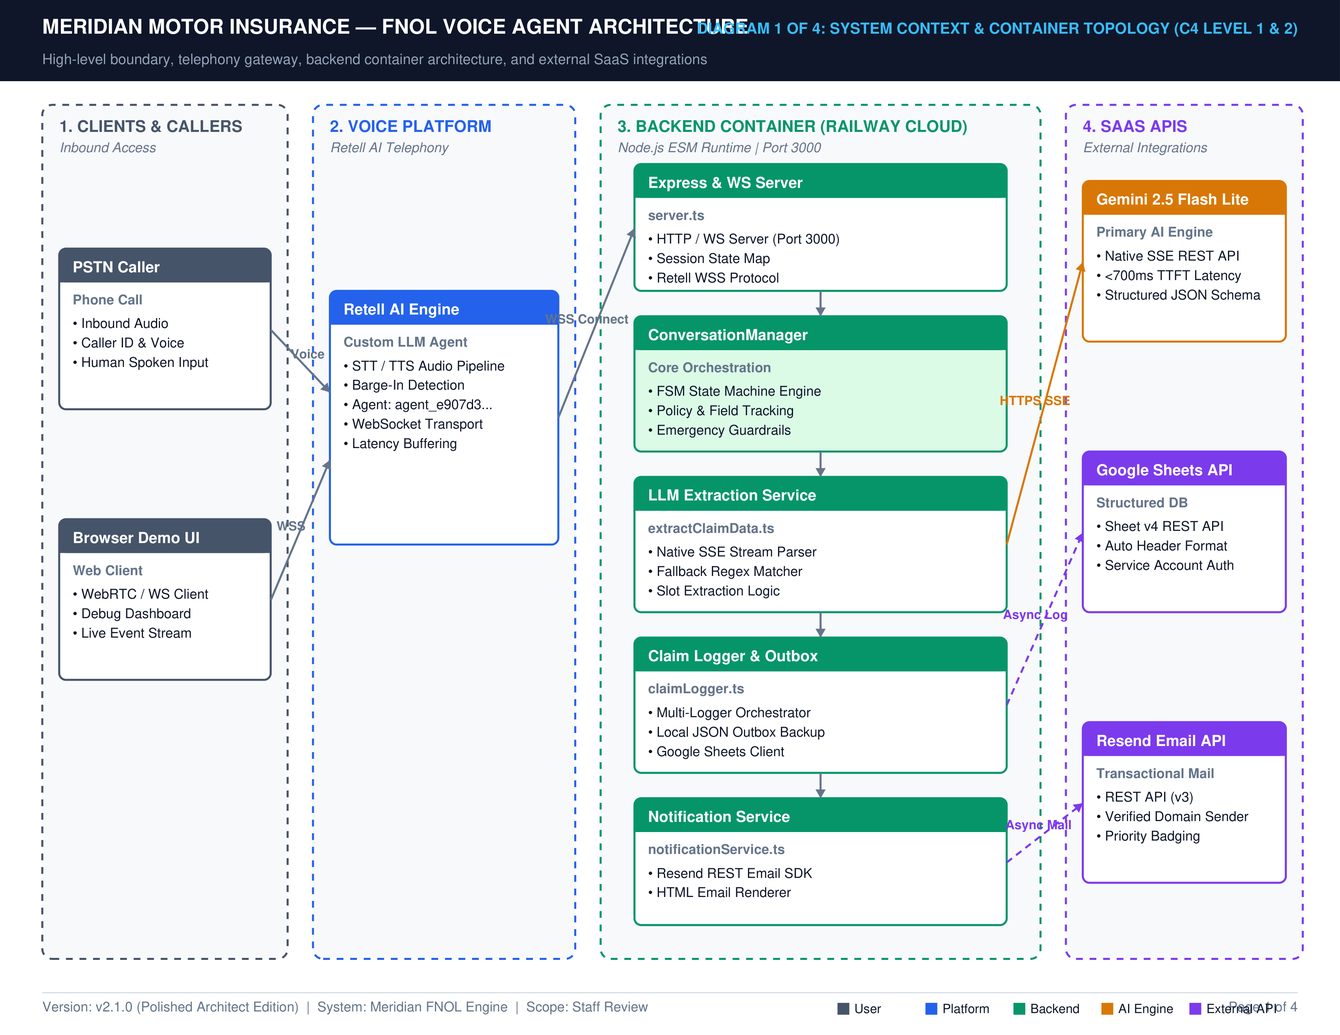
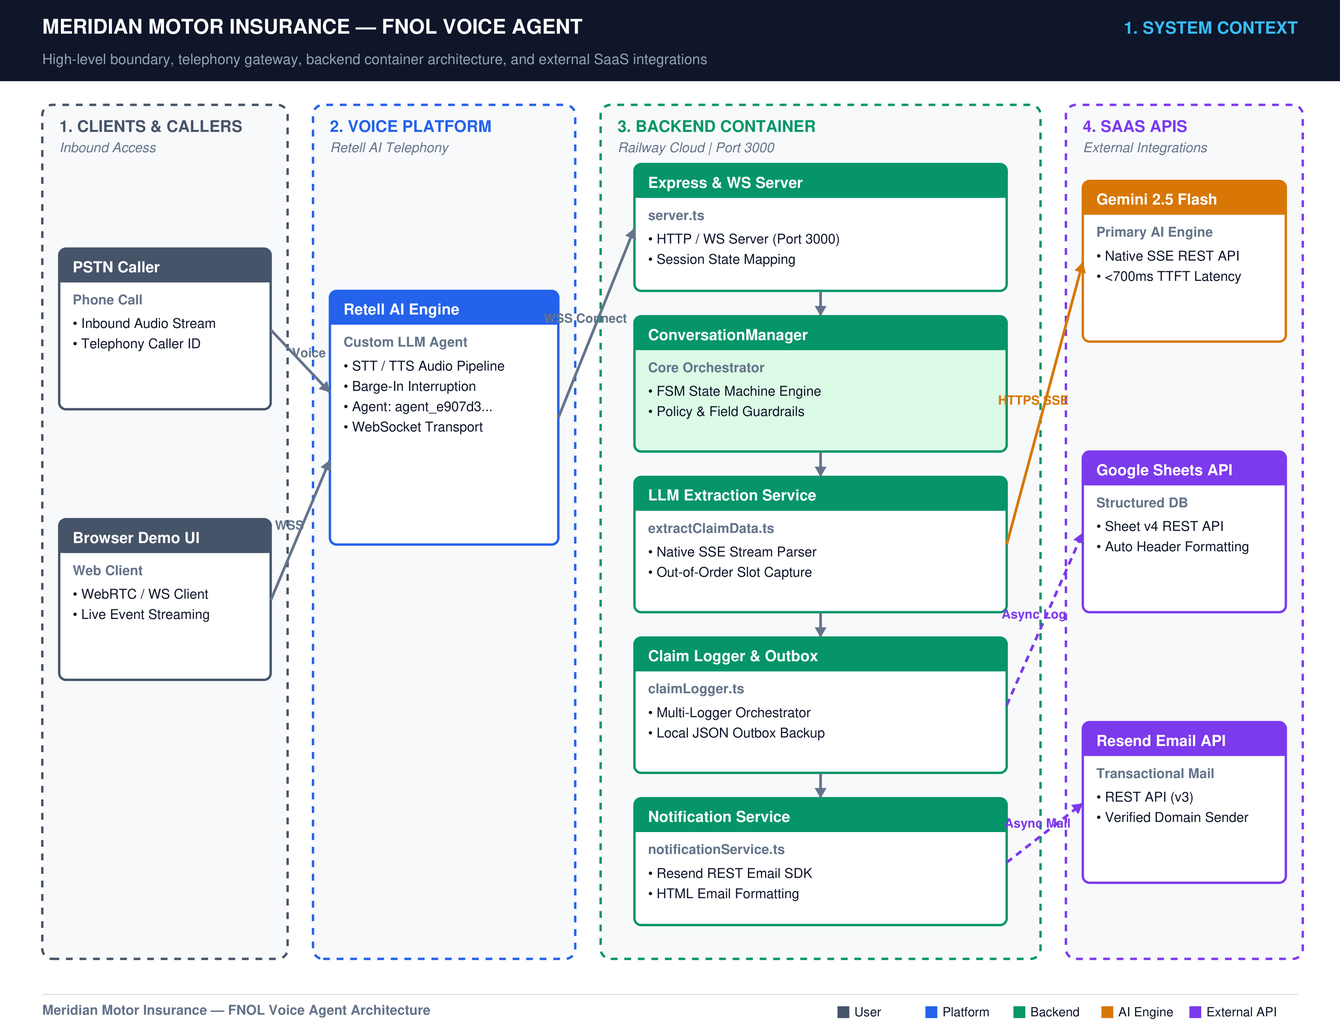
docs: finalize architecture presentation deck with 7 visual refinements (clean titles, zero-clutter footers, high-contrast async box, distinct FSM path colors)

diff --git a/scripts/generate-architecture-artifacts.py b/scripts/generate-architecture-artifacts.py
@@ -16,7 +16,7 @@ COLOR_TEXT_MUTED = colors.HexColor('#64748b')   # Slate 500
 COLOR_BORDER = colors.HexColor('#cbd5e1')       # Slate 300
 COLOR_CONTAINER_BG = colors.HexColor('#f8fafc') # Slate 50
 
-# The 5 Canonical Role Colors
+# 5 Canonical Role Colors
 COLOR_GREY = colors.HexColor('#475569')      # 1. User / Client (Slate 600)
 COLOR_BLUE = colors.HexColor('#2563eb')      # 2. Telephony Platform (Blue 600)
 COLOR_GREEN = colors.HexColor('#059669')     # 3. Core Backend Container (Emerald 600)
@@ -25,42 +25,41 @@ COLOR_PURPLE = colors.HexColor('#7c3aed')    # 5. External Services (Violet 600)
 COLOR_RED = colors.HexColor('#dc2626')       # Safety Alert / Emergency (Red 600)
 
 # =============================================================================
-# PRECISION GRAPHICS ENGINE (TIGHT HEADER & CONSISTENT MARGINS)
+# PRECISION GRAPHICS ENGINE (CLEAN HEADER & THICKER ARROWS)
 # =============================================================================
-def draw_header_footer(c, page_num, title, subtitle):
-    # Compact 36px Header Bar (Gives +45px vertical room for content)
+def draw_header_footer(c, title, subtitle):
+    # Sleek Header Bar
     c.setFillColor(COLOR_HEADER_BG)
     c.rect(0, 564, 792, 48, fill=True, stroke=False)
     
     # Title Left
     c.setFillColor(colors.HexColor('#ffffff'))
     c.setFont("Helvetica-Bold", 12)
-    c.drawString(25, 592, "MERIDIAN MOTOR INSURANCE — FNOL VOICE AGENT ARCHITECTURE")
+    c.drawString(25, 592, "MERIDIAN MOTOR INSURANCE — FNOL VOICE AGENT")
     
-    # Page Tag Right
+    # Clean Page Title Right (e.g. "1. SYSTEM CONTEXT")
     c.setFillColor(colors.HexColor('#38bdf8')) # Sky 400
-    c.setFont("Helvetica-Bold", 9)
-    c.drawRightString(767, 592, f"DIAGRAM {page_num} OF 4: {title.upper()}")
+    c.setFont("Helvetica-Bold", 10)
+    c.drawRightString(767, 592, title.upper())
     
-    # Subtitle Left (Inside dark bar for clean zero-margin look)
+    # Subtitle Left
     c.setFillColor(colors.HexColor('#94a3b8')) # Slate 400
     c.setFont("Helvetica", 8.5)
     c.drawString(25, 574, subtitle)
     
-    # Footer Divider Line
+    # Clean Footer Line
     c.setStrokeColor(COLOR_BORDER)
     c.setLineWidth(0.5)
-    c.line(25, 25, 767, 25)
+    c.line(25, 24, 767, 24)
     
-    # Footer Left & Right
+    # Footer Left
     c.setFillColor(COLOR_TEXT_MUTED)
-    c.setFont("Helvetica", 8)
-    c.drawString(25, 14, "Version: v2.1.0 (Polished Architect Edition)  |  System: Meridian FNOL Engine  |  Scope: Staff Review")
-    c.drawRightString(767, 14, f"Page {page_num} of 4")
+    c.setFont("Helvetica-Bold", 8)
+    c.drawString(25, 12, "Meridian Motor Insurance — FNOL Voice Agent Architecture")
 
     # Legend at Bottom Right
     legend_x = 495
-    legend_y = 14
+    legend_y = 12
     items = [
         ("User", COLOR_GREY),
         ("Platform", COLOR_BLUE),
@@ -79,13 +78,13 @@ def draw_header_footer(c, page_num, title, subtitle):
 def draw_card(c, x, y, width, height, title, subtitle, color, fill_color=colors.HexColor('#ffffff'), text_lines=None, dashed_border=False):
     c.setStrokeColor(color)
     c.setFillColor(fill_color)
-    c.setLineWidth(1.2)
+    c.setLineWidth(1.4)
     if dashed_border:
         c.setDash(4, 3)
     c.roundRect(x, y, width, height, 4, fill=True, stroke=True)
     c.setDash()
     
-    # Header bar inside card (20px tall)
+    # Header bar inside card
     c.setFillColor(color)
     c.roundRect(x, y + height - 20, width, 20, 4, fill=True, stroke=False)
     c.rect(x, y + height - 20, width, 4, fill=True, stroke=False)
@@ -101,19 +100,19 @@ def draw_card(c, x, y, width, height, title, subtitle, color, fill_color=colors.
         c.setFont("Helvetica-Bold", 8)
         c.drawString(x + 8, y + height - 33, subtitle)
     
-    # Bullet lines
+    # Bullet lines (Pruned essentials)
     if text_lines:
         c.setFillColor(COLOR_TEXT_MAIN)
         c.setFont("Helvetica", 8)
         ly = y + height - 47
         for line in text_lines:
             c.drawString(x + 8, ly, line)
-            ly -= 11.5
+            ly -= 12
 
 def draw_container_box(c, x, y, width, height, title, subtitle, color):
     c.setStrokeColor(color)
     c.setFillColor(COLOR_CONTAINER_BG)
-    c.setLineWidth(1.2)
+    c.setLineWidth(1.4)
     c.setDash(4, 4)
     c.roundRect(x, y, width, height, 6, fill=True, stroke=True)
     c.setDash()
@@ -126,10 +125,10 @@ def draw_container_box(c, x, y, width, height, title, subtitle, color):
         c.setFont("Helvetica-Oblique", 8)
         c.drawString(x + 10, y + height - 28, subtitle)
 
-def draw_arrow(c, x1, y1, x2, y2, label="", dashed=False, color=COLOR_TEXT_MUTED):
+def draw_arrow(c, x1, y1, x2, y2, label="", dashed=False, color=COLOR_TEXT_MUTED, line_width=1.6):
     c.setStrokeColor(color)
     c.setFillColor(color)
-    c.setLineWidth(1.2)
+    c.setLineWidth(line_width)
     if dashed:
         c.setDash(4, 3)
     else:
@@ -139,7 +138,7 @@ def draw_arrow(c, x1, y1, x2, y2, label="", dashed=False, color=COLOR_TEXT_MUTED
     
     # Arrowhead calculation
     angle = math.atan2(y2 - y1, x2 - x1)
-    arrow_size = 6
+    arrow_size = 7
     p1x = x2 - arrow_size * math.cos(angle - math.pi/6)
     p1y = y2 - arrow_size * math.sin(angle - math.pi/6)
     p2x = x2 - arrow_size * math.cos(angle + math.pi/6)
@@ -157,8 +156,8 @@ def draw_arrow(c, x1, y1, x2, y2, label="", dashed=False, color=COLOR_TEXT_MUTED
         c.setFont("Helvetica-Bold", 7.5)
         mid_x = (x1 + x2) / 2
         mid_y = (y1 + y2) / 2
-        ox = -math.sin(angle) * 6
-        oy = math.cos(angle) * 6
+        ox = -math.sin(angle) * 7
+        oy = math.cos(angle) * 7
         c.drawCentredString(mid_x + ox, mid_y + oy - 2.5, label)
 
 # =============================================================================
@@ -166,94 +165,90 @@ def draw_arrow(c, x1, y1, x2, y2, label="", dashed=False, color=COLOR_TEXT_MUTED
 # =============================================================================
 def render_diagram1(c):
     draw_header_footer(
-        c, 1, 
-        "System Context & Container Topology (C4 Level 1 & 2)", 
+        c, "1. System Context", 
         "High-level boundary, telephony gateway, backend container architecture, and external SaaS integrations"
     )
     
-    # Vertical bounds: y=45 to y=550 (Height: 505px)
     # 1. External Clients
     draw_container_box(c, 25, 45, 145, 505, "1. CLIENTS & CALLERS", "Inbound Access", COLOR_GREY)
-    draw_card(c, 35, 370, 125, 95, "PSTN Caller", "Phone Call", COLOR_GREY, text_lines=["• Inbound Audio", "• Caller ID & Voice", "• Human Spoken Input"])
-    draw_card(c, 35, 210, 125, 95, "Browser Demo UI", "Web Client", COLOR_GREY, text_lines=["• WebRTC / WS Client", "• Debug Dashboard", "• Live Event Stream"])
+    draw_card(c, 35, 370, 125, 95, "PSTN Caller", "Phone Call", COLOR_GREY, text_lines=["• Inbound Audio Stream", "• Telephony Caller ID"])
+    draw_card(c, 35, 210, 125, 95, "Browser Demo UI", "Web Client", COLOR_GREY, text_lines=["• WebRTC / WS Client", "• Live Event Streaming"])
 
     # 2. Voice Platform
     draw_container_box(c, 185, 45, 155, 505, "2. VOICE PLATFORM", "Retell AI Telephony", COLOR_BLUE)
-    draw_card(c, 195, 290, 135, 150, "Retell AI Engine", "Custom LLM Agent", COLOR_BLUE, text_lines=["• STT / TTS Audio Pipeline", "• Barge-In Detection", "• Agent: agent_e907d3...", "• WebSocket Transport", "• Latency Buffering"])
+    draw_card(c, 195, 290, 135, 150, "Retell AI Engine", "Custom LLM Agent", COLOR_BLUE, text_lines=["• STT / TTS Audio Pipeline", "• Barge-In Interruption", "• Agent: agent_e907d3...", "• WebSocket Transport"])
 
     # 3. Core Railway Cloud Container Boundary
-    draw_container_box(c, 355, 45, 260, 505, "3. BACKEND CONTAINER (RAILWAY CLOUD)", "Node.js ESM Runtime | Port 3000", COLOR_GREEN)
+    draw_container_box(c, 355, 45, 260, 505, "3. BACKEND CONTAINER", "Railway Cloud | Port 3000", COLOR_GREEN)
     
-    draw_card(c, 375, 440, 220, 75, "Express & WS Server", "server.ts", COLOR_GREEN, text_lines=["• HTTP / WS Server (Port 3000)", "• Session State Map", "• Retell WSS Protocol"])
-    draw_card(c, 375, 345, 220, 80, "ConversationManager", "Core Orchestration", COLOR_GREEN, colors.HexColor('#dcfce7'), text_lines=["• FSM State Machine Engine", "• Policy & Field Tracking", "• Emergency Guardrails"])
-    draw_card(c, 375, 250, 220, 80, "LLM Extraction Service", "extractClaimData.ts", COLOR_GREEN, text_lines=["• Native SSE Stream Parser", "• Fallback Regex Matcher", "• Slot Extraction Logic"])
-    draw_card(c, 375, 155, 220, 80, "Claim Logger & Outbox", "claimLogger.ts", COLOR_GREEN, text_lines=["• Multi-Logger Orchestrator", "• Local JSON Outbox Backup", "• Google Sheets Client"])
-    draw_card(c, 375, 65, 220, 75, "Notification Service", "notificationService.ts", COLOR_GREEN, text_lines=["• Resend REST Email SDK", "• HTML Email Renderer"])
+    draw_card(c, 375, 440, 220, 75, "Express & WS Server", "server.ts", COLOR_GREEN, text_lines=["• HTTP / WS Server (Port 3000)", "• Session State Mapping"])
+    draw_card(c, 375, 345, 220, 80, "ConversationManager", "Core Orchestrator", COLOR_GREEN, colors.HexColor('#dcfce7'), text_lines=["• FSM State Machine Engine", "• Policy & Field Guardrails"])
+    draw_card(c, 375, 250, 220, 80, "LLM Extraction Service", "extractClaimData.ts", COLOR_GREEN, text_lines=["• Native SSE Stream Parser", "• Out-of-Order Slot Capture"])
+    draw_card(c, 375, 155, 220, 80, "Claim Logger & Outbox", "claimLogger.ts", COLOR_GREEN, text_lines=["• Multi-Logger Orchestrator", "• Local JSON Outbox Backup"])
+    draw_card(c, 375, 65, 220, 75, "Notification Service", "notificationService.ts", COLOR_GREEN, text_lines=["• Resend REST Email SDK", "• HTML Email Formatting"])
 
     # 4. External Services
     draw_container_box(c, 630, 45, 140, 505, "4. SAAS APIS", "External Integrations", COLOR_PURPLE)
-    draw_card(c, 640, 410, 120, 95, "Gemini 2.5 Flash Lite", "Primary AI Engine", COLOR_ORANGE, text_lines=["• Native SSE REST API", "• <700ms TTFT Latency", "• Structured JSON Schema"])
-    draw_card(c, 640, 250, 120, 95, "Google Sheets API", "Structured DB", COLOR_PURPLE, text_lines=["• Sheet v4 REST API", "• Auto Header Format", "• Service Account Auth"])
-    draw_card(c, 640, 90, 120, 95, "Resend Email API", "Transactional Mail", COLOR_PURPLE, text_lines=["• REST API (v3)", "• Verified Domain Sender", "• Priority Badging"])
+    draw_card(c, 640, 410, 120, 95, "Gemini 2.5 Flash", "Primary AI Engine", COLOR_ORANGE, text_lines=["• Native SSE REST API", "• <700ms TTFT Latency"])
+    draw_card(c, 640, 250, 120, 95, "Google Sheets API", "Structured DB", COLOR_PURPLE, text_lines=["• Sheet v4 REST API", "• Auto Header Formatting"])
+    draw_card(c, 640, 90, 120, 95, "Resend Email API", "Transactional Mail", COLOR_PURPLE, text_lines=["• REST API (v3)", "• Verified Domain Sender"])
 
-    # Connectors
-    draw_arrow(c, 160, 417, 195, 380, "Voice")
-    draw_arrow(c, 160, 257, 195, 340, "WSS")
+    # Connectors with thicker 1.6 lines
+    draw_arrow(c, 160, 417, 195, 380, "Voice", line_width=1.6)
+    draw_arrow(c, 160, 257, 195, 340, "WSS", line_width=1.6)
     
-    draw_arrow(c, 330, 365, 375, 477, "WSS Connect")
-    draw_arrow(c, 485, 440, 485, 425)
-    draw_arrow(c, 485, 345, 485, 330)
-    draw_arrow(c, 485, 250, 485, 235)
-    draw_arrow(c, 485, 155, 485, 140)
+    draw_arrow(c, 330, 365, 375, 477, "WSS Connect", line_width=1.6)
+    draw_arrow(c, 485, 440, 485, 425, line_width=1.6)
+    draw_arrow(c, 485, 345, 485, 330, line_width=1.6)
+    draw_arrow(c, 485, 250, 485, 235, line_width=1.6)
+    draw_arrow(c, 485, 155, 485, 140, line_width=1.6)
 
-    draw_arrow(c, 595, 290, 640, 457, "HTTPS SSE", False, COLOR_ORANGE)
-    draw_arrow(c, 595, 195, 640, 297, "Async Log", True, COLOR_PURPLE)
-    draw_arrow(c, 595, 102, 640, 137, "Async Mail", True, COLOR_PURPLE)
+    draw_arrow(c, 595, 290, 640, 457, "HTTPS SSE", False, COLOR_ORANGE, line_width=1.6)
+    draw_arrow(c, 595, 195, 640, 297, "Async Log", True, COLOR_PURPLE, line_width=1.6)
+    draw_arrow(c, 595, 102, 640, 137, "Async Mail", True, COLOR_PURPLE, line_width=1.6)
 
 # =============================================================================
 # DIAGRAM 2: C4 COMPONENT ARCHITECTURE (CONVERSATION MANAGER)
 # =============================================================================
 def render_diagram2(c):
     draw_header_footer(
-        c, 2, 
-        "Domain Component Architecture (C4 Level 3)", 
+        c, "2. Component Architecture", 
         "Decoupled service components executing turn validation, policy lookup, extraction, and recommendations"
     )
     
-    # Central Orchestrator Top
-    draw_card(c, 276, 435, 240, 85, "ConversationManager", "src/conversation/ConversationManager.ts", COLOR_GREEN, colors.HexColor('#dcfce7'), text_lines=["• Turn Orchestrator & Action Dispatcher", "• FSM State Machine Engine & Invariants", "• Session History & Slot Tracking"])
+    # Central Orchestrator Top (Increased vertical whitespace)
+    draw_card(c, 276, 440, 240, 80, "ConversationManager", "src/conversation/ConversationManager.ts", COLOR_GREEN, colors.HexColor('#dcfce7'), text_lines=["• Turn Orchestrator & Action Dispatcher", "• FSM State Machine Engine", "• Session History & Slot Tracking"])
 
     # 4 Core Processing Components (Top Row)
-    draw_card(c, 25, 260, 170, 125, "VerifyPolicyService", "src/services/verifyPolicy.ts", COLOR_GREEN, text_lines=["• Validates Policy # & Name", "• Reads policies.json DB", "• Enforces 2-Retry Limit", "• Offers Callback on Fail", "• Precondition for Completion"])
+    draw_card(c, 25, 265, 170, 120, "VerifyPolicyService", "verifyPolicy.ts", COLOR_GREEN, text_lines=["• Validates Policy # & Name", "• Reads policies.json DB", "• Enforces 2-Retry Limit", "• Offers Callback on Fail"])
     
-    draw_card(c, 215, 260, 170, 125, "ExtractClaimDataService", "src/services/extractClaimData.ts", COLOR_GREEN, text_lines=["• Prompts Gemini 2.5 SSE", "• Fallback Regex Matcher", "• JSON Slot Sanitizer", "• Calculates Token Metrics", "• Out-of-Order Field Capture"])
+    draw_card(c, 215, 265, 170, 120, "ExtractClaimDataService", "extractClaimData.ts", COLOR_GREEN, text_lines=["• Prompts Gemini 2.5 SSE", "• Fallback Regex Matcher", "• JSON Slot Sanitizer", "• Token Usage Tracking"])
 
-    draw_card(c, 405, 260, 170, 125, "NormalizeClaimData", "src/services/normalizeClaimData.ts", COLOR_GREEN, text_lines=["• Spoken Phonetic Cleaner", "• Normalizes License Plates", "• Converts Relative Dates", "• Standardizes Vehicle Details", "• Sanitize Text & Booleans"])
+    draw_card(c, 405, 265, 170, 120, "NormalizeClaimData", "normalizeClaimData.ts", COLOR_GREEN, text_lines=["• Spoken Phonetic Cleaner", "• License Plate Normalizer", "• Relative Date Parser", "• Vehicle Details Cleaner"])
 
-    draw_card(c, 595, 260, 170, 125, "RecommendServices", "src/services/recommendServices.ts", COLOR_GREEN, text_lines=["• Checks Entitlements", "• Recommends Towing", "• Recommends Garages", "• Out-of-Pocket Rules", "• Service Confirmation Gate"])
+    draw_card(c, 595, 265, 170, 120, "RecommendServices", "recommendServices.ts", COLOR_GREEN, text_lines=["• Checks Entitlements", "• Towing Recommendations", "• Garage Recommendations", "• Out-of-Pocket Rules"])
 
     # 4 Output & Persistence Components (Bottom Row)
-    draw_card(c, 25, 75, 170, 125, "GenerateSummaryService", "src/services/generateSummary.ts", COLOR_GREEN, text_lines=["• Synthesizes Claim Summary", "• Classifies Severity Level", "• Summarizes Incidents", "• Formats Log Output", "• LLM Summary Generator"])
+    draw_card(c, 25, 75, 170, 120, "GenerateSummaryService", "generateSummary.ts", COLOR_GREEN, text_lines=["• Synthesizes Claim Summary", "• Classifies Severity Level", "• Summarizes Incidents", "• Formats Output Payload"])
 
-    draw_card(c, 215, 75, 170, 125, "ClaimLoggerService", "src/storage/googleSheets.ts", COLOR_GREEN, text_lines=["• Appends Rows to Sheet", "• Auto-Formats Headers", "• Handles Google Auth", "• Writes Local JSON Outbox", "• MultiClaimLogger Fallback"])
+    draw_card(c, 215, 75, 170, 120, "ClaimLoggerService", "googleSheets.ts", COLOR_GREEN, text_lines=["• Appends Rows to Sheet", "• Auto-Formats Headers", "• Handles Google Auth", "• Writes Local JSON Outbox"])
 
-    draw_card(c, 405, 75, 170, 125, "NotificationService", "src/services/notificationService.ts", COLOR_GREEN, text_lines=["• Sends Resend Emails", "• Formats HTML/Text Mail", "• Priority Urgent Badges", "• Handles Sandbox Fallback", "• Recipient Email Dispatch"])
+    draw_card(c, 405, 75, 170, 120, "NotificationService", "notificationService.ts", COLOR_GREEN, text_lines=["• Sends Resend Emails", "• HTML Email Formatting", "• Priority Urgent Badges", "• Sandbox Mode Fallback"])
 
-    draw_card(c, 595, 75, 170, 125, "EmpathyEngine", "src/config/EmpathyEngine.ts", COLOR_GREEN, text_lines=["• Distress Phrase Detector", "• Warm Spoken Openers", "• Calming Response Rules", "• Compliance Tone Check", "• Human Tone Guardrails"])
+    draw_card(c, 595, 75, 170, 120, "EmpathyEngine", "EmpathyEngine.ts", COLOR_GREEN, text_lines=["• Distress Phrase Detector", "• Warm Spoken Openers", "• Calming Response Rules", "• Compliance Tone Check"])
 
     # Connectors from Orchestrator down to components
     top_targets = [110, 300, 490, 680]
     for tx in top_targets:
-        draw_arrow(c, 396, 435, tx, 385, "Invokes")
-        draw_arrow(c, tx, 260, tx, 200, "Flows to")
+        draw_arrow(c, 396, 440, tx, 385, "Invokes", line_width=1.6)
+        draw_arrow(c, tx, 265, tx, 195, "Flows to", line_width=1.6)
 
 # =============================================================================
 # DIAGRAM 3: UML SEQUENCE FLOW & ASYNC PERSISTENCE
 # =============================================================================
 def render_diagram3(c):
     draw_header_footer(
-        c, 3, 
-        "End-to-End Sequence & Non-Blocking Async Persistence", 
+        c, "3. Runtime Sequence", 
         "Low-latency real-time voice turns paired with asynchronous background logging & notification"
     )
     
@@ -280,7 +275,7 @@ def render_diagram3(c):
         c.setDash()
 
     def seq_msg(x1, x2, y, text, async_call=False):
-        draw_arrow(c, x1, y, x2, y, text, async_call, COLOR_PURPLE if async_call else COLOR_TEXT_MAIN)
+        draw_arrow(c, x1, y, x2, y, text, async_call, COLOR_PURPLE if async_call else COLOR_TEXT_MAIN, line_width=1.7)
 
     y = 465
     seq_msg(75, 195, y, "1. Inbound Phone Call"); y -= 33
@@ -294,61 +289,66 @@ def render_diagram3(c):
     seq_msg(475, 335, y, "9. Verified Policy & Response Text"); y -= 33
     seq_msg(335, 195, y, "10. response { content } (Audio Plays)"); y -= 45
     
-    # Async Block highlight
+    # Highly Obvious Darker Purple Async Container Box
     c.setStrokeColor(COLOR_PURPLE)
-    c.setFillColor(colors.HexColor('#f3e8ff'))
-    c.setLineWidth(1.2)
+    c.setFillColor(colors.HexColor('#ede9fe')) # High contrast light violet
+    c.setLineWidth(1.6)
     c.setDash(4, 3)
     c.roundRect(415, y - 60, 360, 85, 4, fill=True, stroke=True)
     c.setDash()
     
     c.setFillColor(COLOR_PURPLE)
-    c.setFont("Helvetica-Bold", 8.5)
-    c.drawString(425, y + 12, "NON-BLOCKING ASYNC PERSISTENCE (Post-Response)")
+    c.setFont("Helvetica-Bold", 9)
+    c.drawString(425, y + 12, "BACKGROUND TASKS (NON-BLOCKING ASYNC I/O)")
     
-    seq_msg(475, 735, y - 10, "11. Promise.resolve -> claimLogger.log()", True); y -= 33
-    seq_msg(475, 735, y - 10, "12. Promise.resolve -> sendClaimConfirmation()", True)
+    seq_msg(475, 735, y - 10, "11. Promise.resolve -> Google Sheets API", True); y -= 33
+    seq_msg(475, 735, y - 10, "12. Promise.resolve -> Resend Email API", True)
 
 # =============================================================================
 # DIAGRAM 4: FINITE STATE MACHINE (FSM) & COMPLIANCE ENGINE
 # =============================================================================
 def render_diagram4(c):
     draw_header_footer(
-        c, 4, 
-        "Claim Finite State Machine (FSM) & Compliance Engine", 
+        c, "4. Finite State Machine", 
         "100% deterministic safety guardrails, policy verification limits, field collection, and completion gates"
     )
     
     cw, ch = 155, 62
     
-    # State Nodes Layout with 45px more vertical space
+    # State Nodes Layout with distinct path colors
     draw_card(c, 318, 445, cw, ch, "safety_check", "Initial Greeting", COLOR_BLUE, text_lines=["• Asks if everyone is safe", "• Scans for severe crash"])
-    draw_card(c, 80, 325, cw, ch, "escalation", "Emergency Alert", COLOR_RED, colors.HexColor('#fef2f2'), text_lines=["• High Severity Flagged", "• Advises 911 / Emergency"])
-    draw_card(c, 555, 325, cw, ch, "verification", "Policy Lookup", COLOR_GREEN, text_lines=["• Policy # + Name Check", "• DB Lookup in policies.json"])
     
-    draw_card(c, 80, 205, cw, ch, "callback_offer", "Verification Failed", COLOR_ORANGE, text_lines=["• 2 Retries Exceeded", "• Schedules Human Callback"])
-    draw_card(c, 555, 205, cw, ch, "collecting_details", "FNOL Collection", COLOR_GREEN, text_lines=["• Required Fields Gate", "• Conditional Injury Details"])
+    # Emergency Path (Red)
+    draw_card(c, 80, 325, cw, ch, "escalation", "Emergency Alert", COLOR_RED, colors.HexColor('#fef2f2'), text_lines=["• High Severity Flagged", "• Advises 911 / Emergency"])
+    
+    # Happy Path (Green)
+    draw_card(c, 555, 325, cw, ch, "verification", "Policy Lookup", COLOR_GREEN, colors.HexColor('#f0fdf4'), text_lines=["• Policy # + Name Check", "• DB Lookup in policies.json"])
+    
+    # Failure / Retry Path (Orange / Blue)
+    draw_card(c, 80, 205, cw, ch, "callback_offer", "Verification Failed", COLOR_ORANGE, colors.HexColor('#fffbeb'), text_lines=["• 2 Retries Exceeded", "• Schedules Human Callback"])
+    draw_card(c, 555, 205, cw, ch, "collecting_details", "FNOL Collection", COLOR_GREEN, colors.HexColor('#f0fdf4'), text_lines=["• Required Fields Gate", "• Conditional Injury Details"])
     
     draw_card(c, 80, 85, cw, ch, "clarifying", "Invalid Input", COLOR_BLUE, text_lines=["• Malformed Reg Plate", "• Prompts for Repetition"])
-    draw_card(c, 555, 85, cw, ch, "recommending_services", "Service Entitlements", COLOR_GREEN, text_lines=["• Towing & Garage Offer", "• Policy Limit Checks"])
+    draw_card(c, 555, 85, cw, ch, "recommending_services", "Service Entitlements", COLOR_GREEN, colors.HexColor('#f0fdf4'), text_lines=["• Towing & Garage Offer", "• Policy Limit Checks"])
     
+    # Final Happy Completion Node (Bright Emerald Green)
     draw_card(c, 318, 40, cw, ch, "completed", "Claim Persisted", COLOR_GREEN, colors.HexColor('#dcfce7'), text_lines=["• Sheet & Email Dispatched", "• Final Spoken Summary"])
 
-    # State Transitions with clear labels
-    draw_arrow(c, 318, 476, 235, 387, "Injuries / Severe", color=COLOR_RED)
-    draw_arrow(c, 473, 476, 555, 387, "Safe / No Injuries", color=COLOR_GREEN)
+    # Thicker colored transition arrows (1.7px line width)
+    draw_arrow(c, 318, 476, 235, 387, "Injuries / Severe", color=COLOR_RED, line_width=1.7)
+    draw_arrow(c, 473, 476, 555, 387, "Safe / No Injuries", color=COLOR_GREEN, line_width=1.7)
     
-    draw_arrow(c, 555, 356, 235, 267, "Attempts >= 2", color=COLOR_ORANGE)
-    draw_arrow(c, 632, 325, 632, 267, "Verified Policy", color=COLOR_GREEN)
+    draw_arrow(c, 555, 356, 235, 267, "Attempts >= 2", color=COLOR_ORANGE, line_width=1.7)
+    draw_arrow(c, 632, 325, 632, 267, "Verified Policy", color=COLOR_GREEN, line_width=1.7)
     
-    draw_arrow(c, 555, 236, 235, 147, "Malformed Reg", color=COLOR_BLUE)
-    draw_arrow(c, 632, 205, 632, 147, "Fields Complete", color=COLOR_GREEN)
+    draw_arrow(c, 555, 236, 235, 147, "Malformed Reg", color=COLOR_BLUE, line_width=1.7)
+    draw_arrow(c, 632, 205, 632, 147, "Fields Complete", color=COLOR_GREEN, line_width=1.7)
     
-    draw_arrow(c, 235, 116, 555, 236, "Reg Clarified", color=COLOR_GREEN)
+    draw_arrow(c, 235, 116, 555, 236, "Reg Clarified", color=COLOR_GREEN, line_width=1.7)
     
-    draw_arrow(c, 157, 325, 318, 71, "Close Call", color=COLOR_RED)
-    draw_arrow(c, 157, 205, 318, 71, "Close Call", color=COLOR_ORANGE)
-    draw_arrow(c, 632, 85, 473, 71, "Complete Claim", color=COLOR_GREEN)
+    draw_arrow(c, 157, 325, 318, 71, "Close Call", color=COLOR_RED, line_width=1.7)
+    draw_arrow(c, 157, 205, 318, 71, "Close Call", color=COLOR_ORANGE, line_width=1.7)
+    draw_arrow(c, 632, 85, 473, 71, "Complete Claim", color=COLOR_GREEN, line_width=1.7)
 
 # =============================================================================
 # MAIN BUILD PIPELINE
@@ -359,13 +359,12 @@ def build_all_artifacts():
     
     c = canvas.Canvas(pdf_path, pagesize=landscape(letter))
     
-    # 4 Streamlined Diagrams
     for page_fn in [render_diagram1, render_diagram2, render_diagram3, render_diagram4]:
         page_fn(c)
         c.showPage()
         
     c.save()
-    print(f"✅ Generated 4-Page Streamlined PDF: {pdf_path}")
+    print(f"✅ Generated 4-Page PDF: {pdf_path}")
 
     # High-Res PNG (Page 1 preview) at 300 DPI
     doc = fitz.open(pdf_path)
